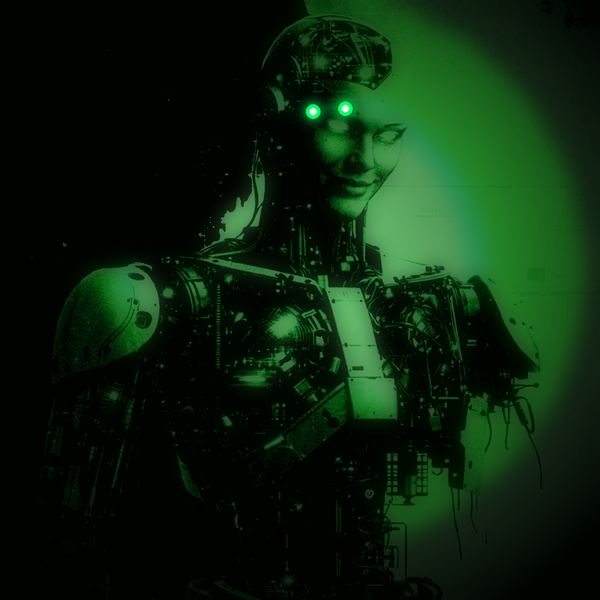
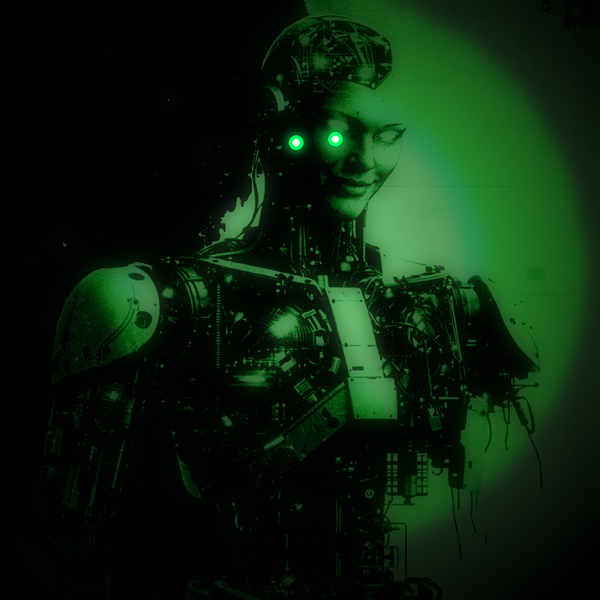
Icone : LEDs recalibrees sur les vrais yeux du robot (0.494/0.559 x 0.238/0.232)

Changed region(s): [[0.45, 0.15, 0.6, 0.27]]

diff --git a/icons/generate_icons.py b/icons/generate_icons.py
@@ -102,11 +102,11 @@ def _enhance_eyes(img: Image.Image) -> Image.Image:
     out = img.convert("RGBA")
     w, h = out.size
 
-    # Coordonnées des yeux du robot (calibrées via zoom face 700×600 sur image 1024)
-    # Œil principal visible (côté notre gauche, le robot regarde 3/4) ≈ (535, 190)
-    # Œil partiellement masqué (côté notre droite) ≈ (590, 185)
-    eye_left = (int(w * 0.522), int(h * 0.186))   # (534, 190)
-    eye_right = (int(w * 0.576), int(h * 0.181))  # (590, 185)
+    # Coordonnées des yeux du robot (calibrées via zoom icon-512 → fraction sur icône finale)
+    # Confirmé : les coords précédentes tombaient sur le front, pas sur les yeux.
+    # Vrais yeux mesurés ≈ (506, 244) et (572, 238) sur 1024.
+    eye_left = (int(w * 0.494), int(h * 0.238))   # (506, 244)
+    eye_right = (int(w * 0.559), int(h * 0.232))  # (572, 238)
 
     # Couche 1 : Halo très large vert (atmosphère)
     halo_far = Image.new("RGBA", (w, h), (0, 0, 0, 0))
